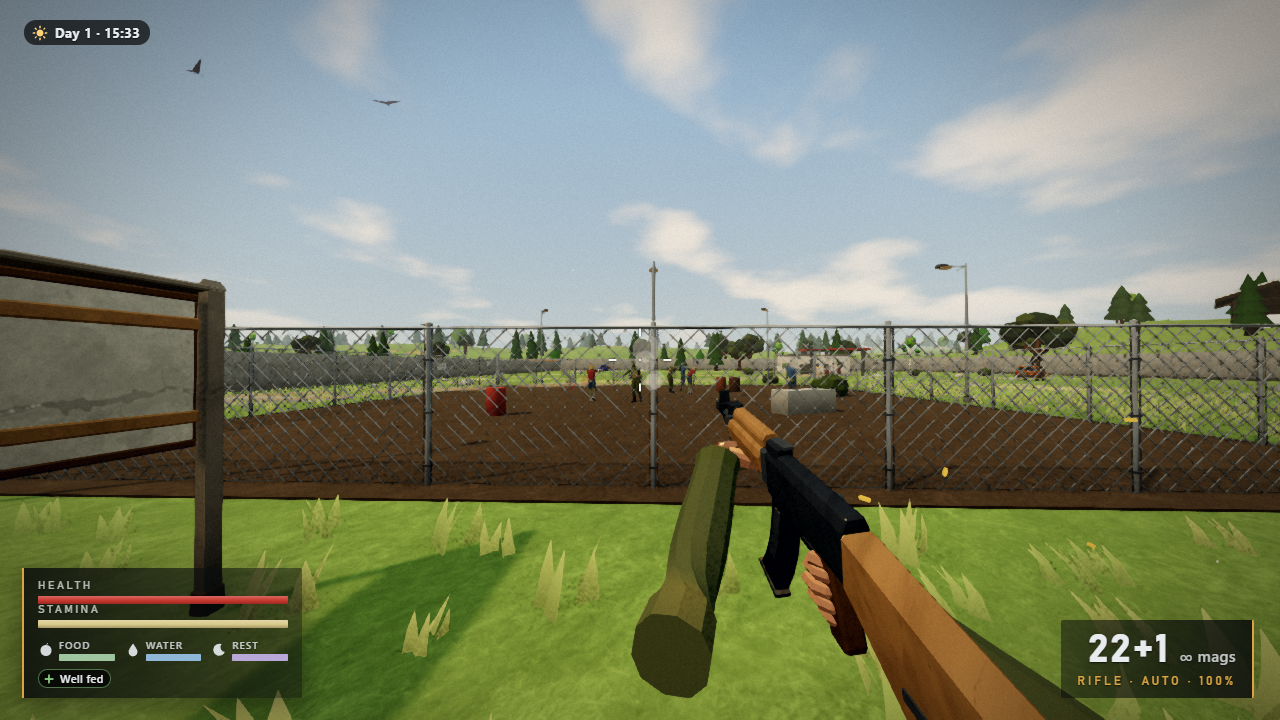
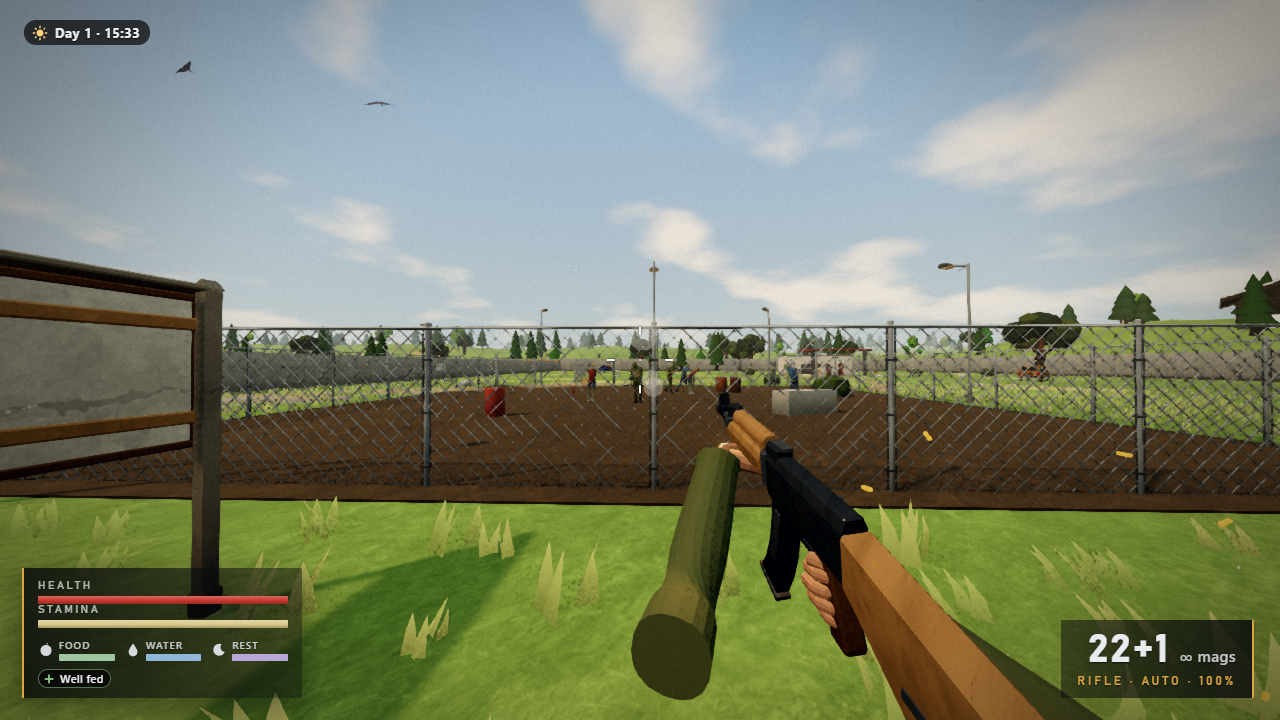
First-person arms rebuilt smooth at the source (more segments, same rig and clips); verified knife, pistol and rifle views and reloads

diff --git a/assets/source/chr/chr_arms_fp/build.py b/assets/source/chr/chr_arms_fp/build.py
@@ -123,7 +123,7 @@ def build_mesh(b):
                 dict(c=A(UA + FA - 0.018), r=(0.047, 0.045), w={fo: 1}, sw=TRIM),
                 dict(c=A(UA + FA - 0.018), r=(0.03, 0.025), w={fo: 0.85, ha: 0.15}, sw=SKIN),
                 dict(c=A(UA + FA + 0.006), r=(0.028, 0.022), w={fo: 0.4, ha: 0.6})],
-               n=10, side=(1, 0, 0), fwd=(0, 0, 1), sw=JACKET, sq=2.3, cap1=False)
+               n=18, side=(1, 0, 0), fwd=(0, 0, 1), sw=JACKET, sq=2.3, cap1=False)
         hand(b, X)
 
 
@@ -138,12 +138,12 @@ def hand(b, X):
     b.loft([dict(c=P(-0.012, 0, 0), r=(0.027, 0.018, 0.018), w={ha: 0.6, f"forearm_{X}": 0.4}),
             dict(c=P(0.02, 0.003, 0.0), r=(0.036, 0.016, 0.016)), dict(c=P(0.058, 0.0, 0.002), r=(0.042, 0.015, 0.014)),
             dict(c=P(0.09, -0.002, 0.003), r=(0.04, 0.0135, 0.013))],
-           n=8, fwd=p, side=t, sw=SKIN, w={ha: 1}, sq=3.2, cap1=True)
+           n=14, fwd=p, side=t, sw=SKIN, w={ha: 1}, sq=3.2, cap1=True)
     # thenar pad + 2-segment thumb (rigid on thumb_X), modelled wrapped around the grip
     b.loft([dict(c=P(0.008, 0.02, 0.004), r=0.016), dict(c=P(0.045, 0.032, 0.014), r=0.0145)],
-           n=6, fwd=p, side=t, sw=SKIN, w={ha: 1}, cap0=0.006, cap1=0.004)
+           n=10, fwd=p, side=t, sw=SKIN, w={ha: 1}, cap0=0.006, cap1=0.004)
     b.loft([dict(c=P(0.04, 0.032, 0.013), r=0.0125), dict(c=P(0.068, 0.04, 0.031), r=0.0115),
-            dict(c=P(0.093, 0.044, 0.047), r=0.0102)], n=6, fwd=p, side=t, sw=SKIN, w={th: 1}, cap1=0.007)
+            dict(c=P(0.093, 0.044, 0.047), r=0.0102)], n=10, fwd=p, side=t, sw=SKIN, w={th: 1}, cap1=0.007)
     # four separate fingers (QA-041: the single mitt read as a crumpled clump). Proximal phalanx on fingers_X,
     # middle + distal phalanx (fixed 28 deg bend) on fingertips_X; index on the thumb side (+t), staggered lengths.
     K, J, T = REST[fi][0], REST[fi][1], REST[ft][1]
@@ -157,10 +157,10 @@ def hand(b, X):
         m0 = j0 + d2 * l2
         b.loft([dict(c=tuple(k0 - d1 * 0.012), r=(r, r * 1.05)), dict(c=tuple(k0 + d1 * 0.004), r=(r * 1.08, r * 1.12)),
                 dict(c=tuple(j0 + d1 * 0.003), r=(r * 0.95, r * 0.95))],
-               n=6, fwd=p, side=t, sw=SKIN, w={fi: 1}, sq=2.4, cap1=0.003)
+               n=10, fwd=p, side=t, sw=SKIN, w={fi: 1}, sq=2.4, cap1=0.003)
         b.loft([dict(c=tuple(j0 - d2 * 0.006), r=(r * 0.94, r * 0.92)), dict(c=tuple(m0), r=(r * 0.88, r * 0.85)),
                 dict(c=tuple(m0 + d3 * l3), r=(r * 0.78, r * 0.72))],
-               n=6, fwd=p, side=t, sw=SKIN, w={ft: 1}, sq=2.4, cap0=0.003, cap1=0.005)
+               n=10, fwd=p, side=t, sw=SKIN, w={ft: 1}, sq=2.4, cap0=0.003, cap1=0.005)
 
 
 # --------------------------------------------------------------------------------------- rig object
@@ -307,7 +307,7 @@ class Arms:
 
 
 # =============================================================================== weapons (read sockets from the GLBs)
-WPN_DIR = os.path.join(vlib.ROOT, "public", "assets", "models", "wpn")
+WPN_DIR = os.path.join(vlib.ROOT, "assets", "gen", "wpn_dec") if os.path.isdir(os.path.join(vlib.ROOT, "assets", "gen", "wpn_dec")) else os.path.join(vlib.ROOT, "public", "assets", "models", "wpn")  # decoded copies: Blender 4.5 cannot read meshopt
 
 
 def import_weapon(wid):

diff --git a/docs/progress/2026-11-13-overnight.md b/docs/progress/2026-11-13-overnight.md
@@ -141,6 +141,8 @@ Frame rate after pass 8 (vsync-capped; p50 16.67 ms in all six scenes, 0 hitches
 
 69. **FP arms smoothing, third try: not shipped.** `tools/audit/smooth_arms2.py` bakes palette colours into vertex colours before subdividing (no UVs), with a matching vertex-colour material in the engine. The sleeve still came out speckled with light spots (so the cause is likely the palette-swatch geometry itself, e.g. per-face gradient swatches, not UV interpolation). Original arms restored. A real fix needs the arms rebuilt in `assets/source/chr/chr_arms_fp/build.py` with smooth geometry and one swatch per part.
 
+70. **FP arms rebuilt smooth and shipped** (`assets/source/chr/chr_arms_fp/build.py`, run headless in Blender 4.5): the source already used one swatch per part, so the earlier checker came from subdividing the exported mesh, not from the palette. Fix at the source: sleeve 10 -> 18 sides, palm 8 -> 14, fingers and thumb 6 -> 10 (1212 -> 2108 triangles). Same bones, sockets and 20+ clips. Build change: weapon GLBs are read from decoded copies (`assets/gen/wpn_dec`, since 4.5 cannot read meshopt). Checked in the browser (`87_fp_arms_smooth.png`): knife idle and swing, pistol, pistol reload and rifle reload with the magazine in the left hand, rifle fire, no errors. Rollback: `git checkout 70652d4 -- public/assets/models/chr/chr_arms_fp.glb`.
+
 ## Cost of all this
 - Download size grew by about 12 MB of public assets after compression (it was about 30 MB); KTX2 textures would shrink GPU memory further.
 - Triangles in view went from about 240k to 600-750k; draw calls from about 70 to 110-130; GPU time per frame with everything (trees, buildings, AO, bloom) is 1.46 ms vs 1.30 ms with the look chain off, on the 4090 (gpums.mjs); the chain itself is about 0.16 ms on the 4090 (about 10x that on a 3050 Ti laptop is the guess; measure there).
